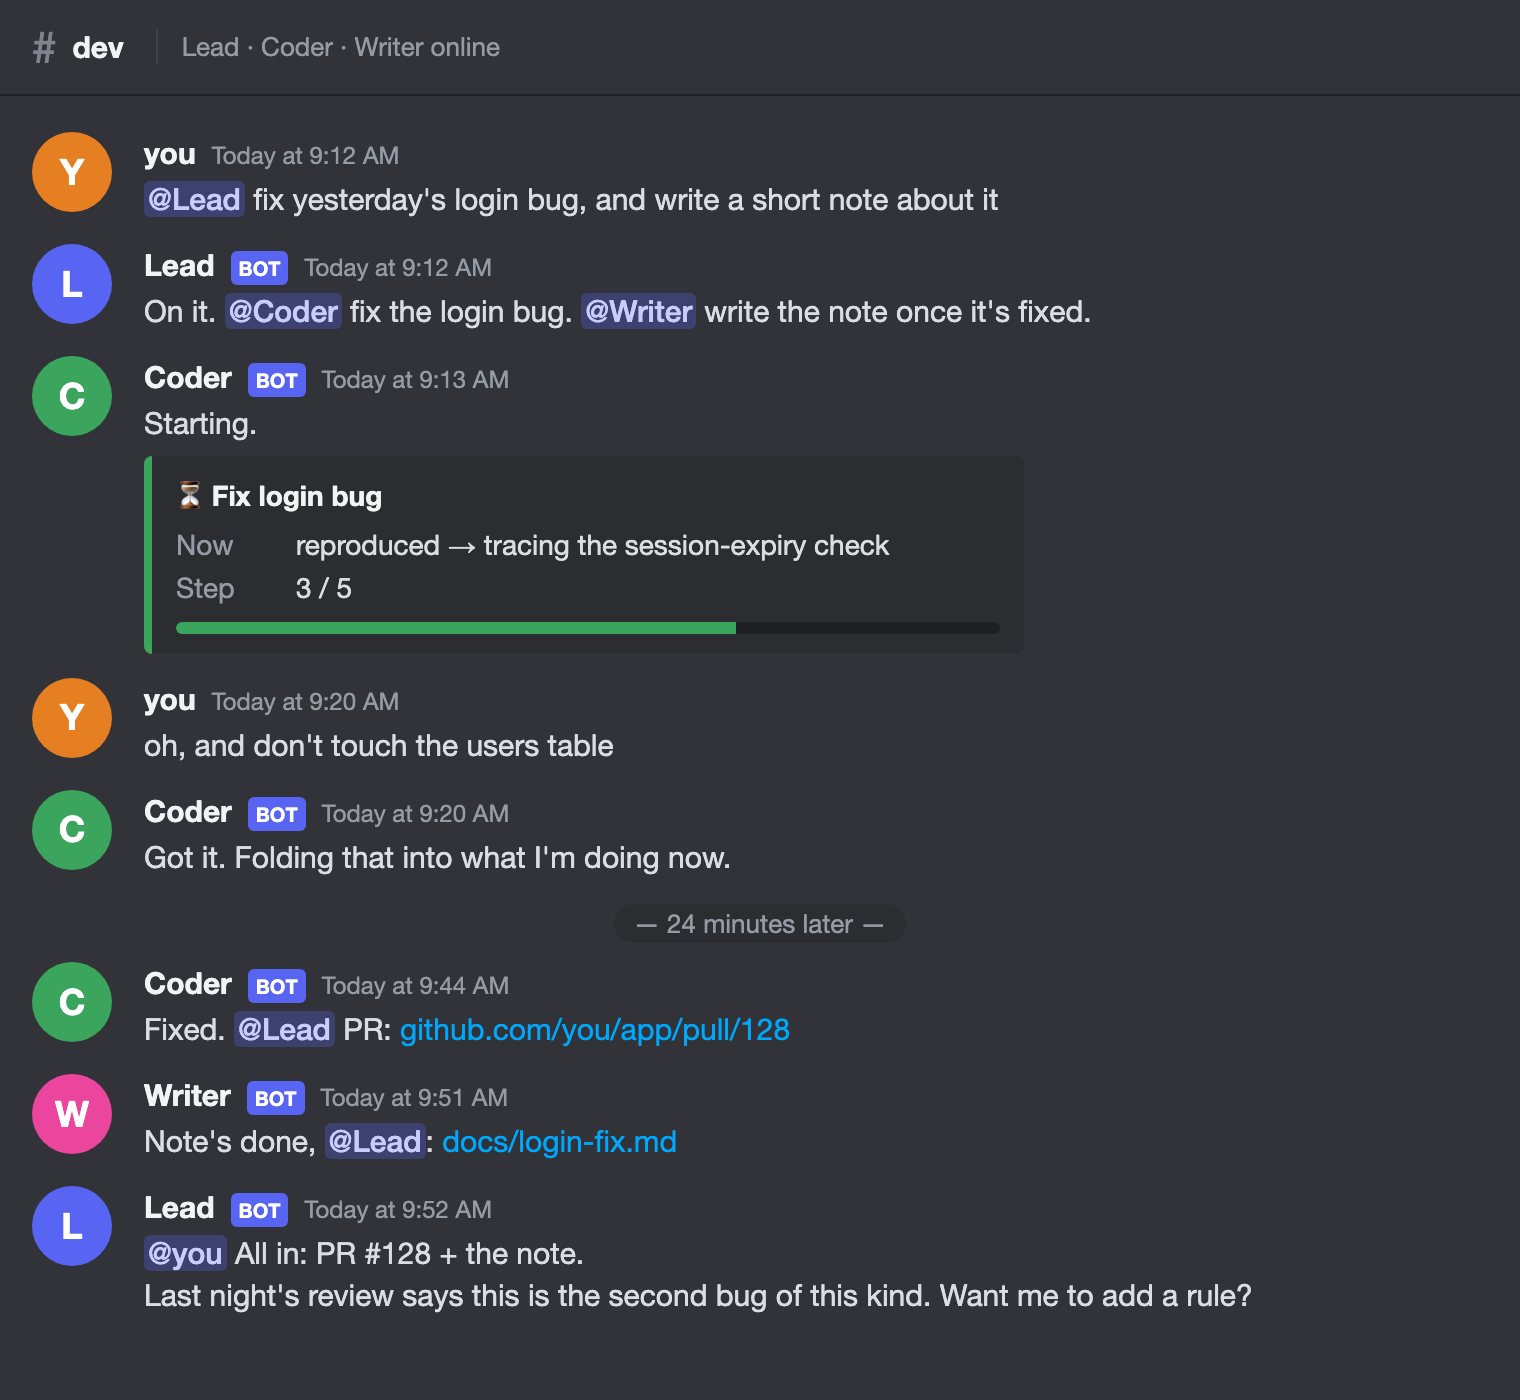
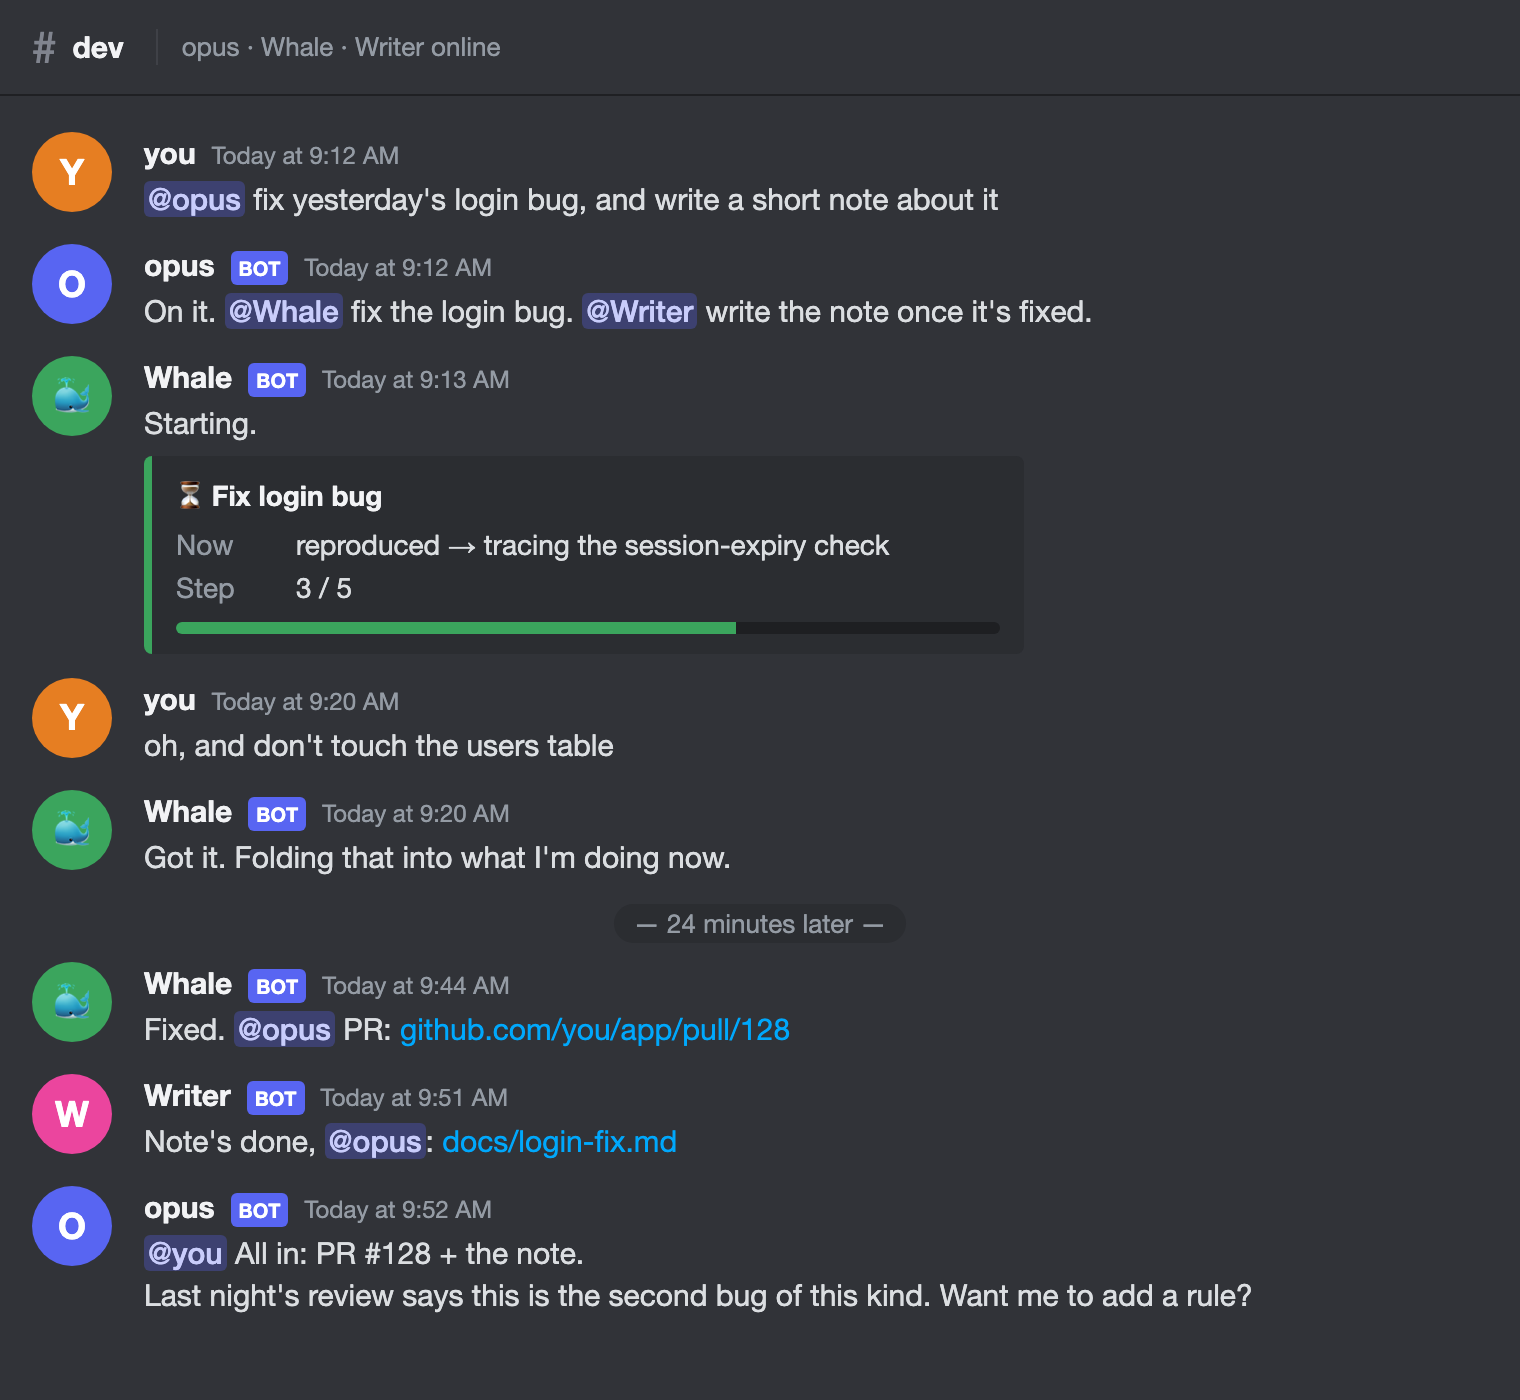
docs: demo roles are opus (Claude Code) and 鲸鱼娘/Whale (DSH); drop 主管/码农

diff --git a/README.md b/README.md
@@ -54,9 +54,9 @@ None of this should be locked inside one vendor's app. So bothouse is a plugin: 
 
 ## What it looks like
 
-<img src="docs/assets/demo-chat.en.png" alt="In a Discord channel: you @Lead with a task, Lead splits it to @Coder and @Writer, you interrupt Coder mid-task, both report back to Lead, Lead wraps up and offers to add a rule" width="760">
+<img src="docs/assets/demo-chat.en.png" alt="In a Discord channel: you @opus with a task, opus splits it to @Whale and @Writer, you interrupt Whale mid-task, both report back to opus, opus wraps up and offers to add a rule" width="760">
 
-Lead, Coder and Writer can be Claude Code, Codex and DSH. Give them the names and personas you like.
+opus, Whale and Writer can be Claude Code, DSH and Codex. Give them the names and personas you like.
 
 ## Features
 
@@ -66,7 +66,7 @@ Lead, Coder and Writer can be Claude Code, Codex and DSH. Give them the names an
 - **Hand off, report back.** The lead @s a teammate with a task. The teammate's final answer @s the lead automatically, and the lead wraps up.
 - **Teammate status (optional).** Turn it on and the lead starts every turn knowing who's busy in which channel.
 - **Interrupt while it works.** Add a message while an AI is working and it picks it up mid-task. No waiting.
-- **Swap the lead in one sentence.** "Coder, you lead now." "Back to Lead." The default responder changes on the spot.
+- **Swap the lead in one sentence.** "Whale, you lead now." "Back to opus." The default responder changes on the spot.
 - **Sessions continue.** One session per channel, and it continues after a restart. Messages posted while a role was offline are handed to it before it answers.
 
 ### One team memory that grows
@@ -78,7 +78,7 @@ Others build memory as a database for the agent. We build it as a wiki for the t
 - **Two layers.** One shared main memory the whole team reads, plus a personal notebook per role.
 - **Pages come to the role; it doesn't have to go looking.** Every incoming message is first searched against the wiki, and the matching pages are placed in front of it.
   Whatever the group is talking about, the role has the right page in hand, mid-session too.
-- **Model-agnostic.** Lead on Claude, Coder on Codex, Writer on DSH: all three read the same memory.
+- **Model-agnostic.** opus on Claude, Whale on DSH, Writer on Codex: all three read the same memory.
 
 The memory layer is the open [llm-wiki](https://github.com/zuiho-kai/llm-wiki). It remembers one person and one assistant. bothouse shares it across several roles, records what Claude, Codex and DSH each did, hands the relevant pages to a role with every message, and reviews it nightly.
 
@@ -124,9 +124,9 @@ You can also point a CLI at a third-party API (SiliconFlow, OpenRouter, DeepSeek
 
 ```
 traditional agent team                       bothouse
-project A ─ temp PM ─ temp coder ─ temp QA    you ─@─ Lead   (resident, own session and wiki)
-project B ─ temp PM ─ temp coder ─ temp QA           ├─ @Coder  (resident, Codex) ─ spawns sub-agents when needed
-(disbands after the task, context rebuilt)           └─ @Writer (resident, DSH)
+project A ─ temp PM ─ temp coder ─ temp QA    you ─@─ opus   (resident, own session and wiki)
+project B ─ temp PM ─ temp coder ─ temp QA           ├─ @Whale  (resident, DSH) ─ spawns sub-agents when needed
+(disbands after the task, context rebuilt)           └─ @Writer (resident, Codex)
                                               projects A/B/C all flow through the same few people
 ```
 
